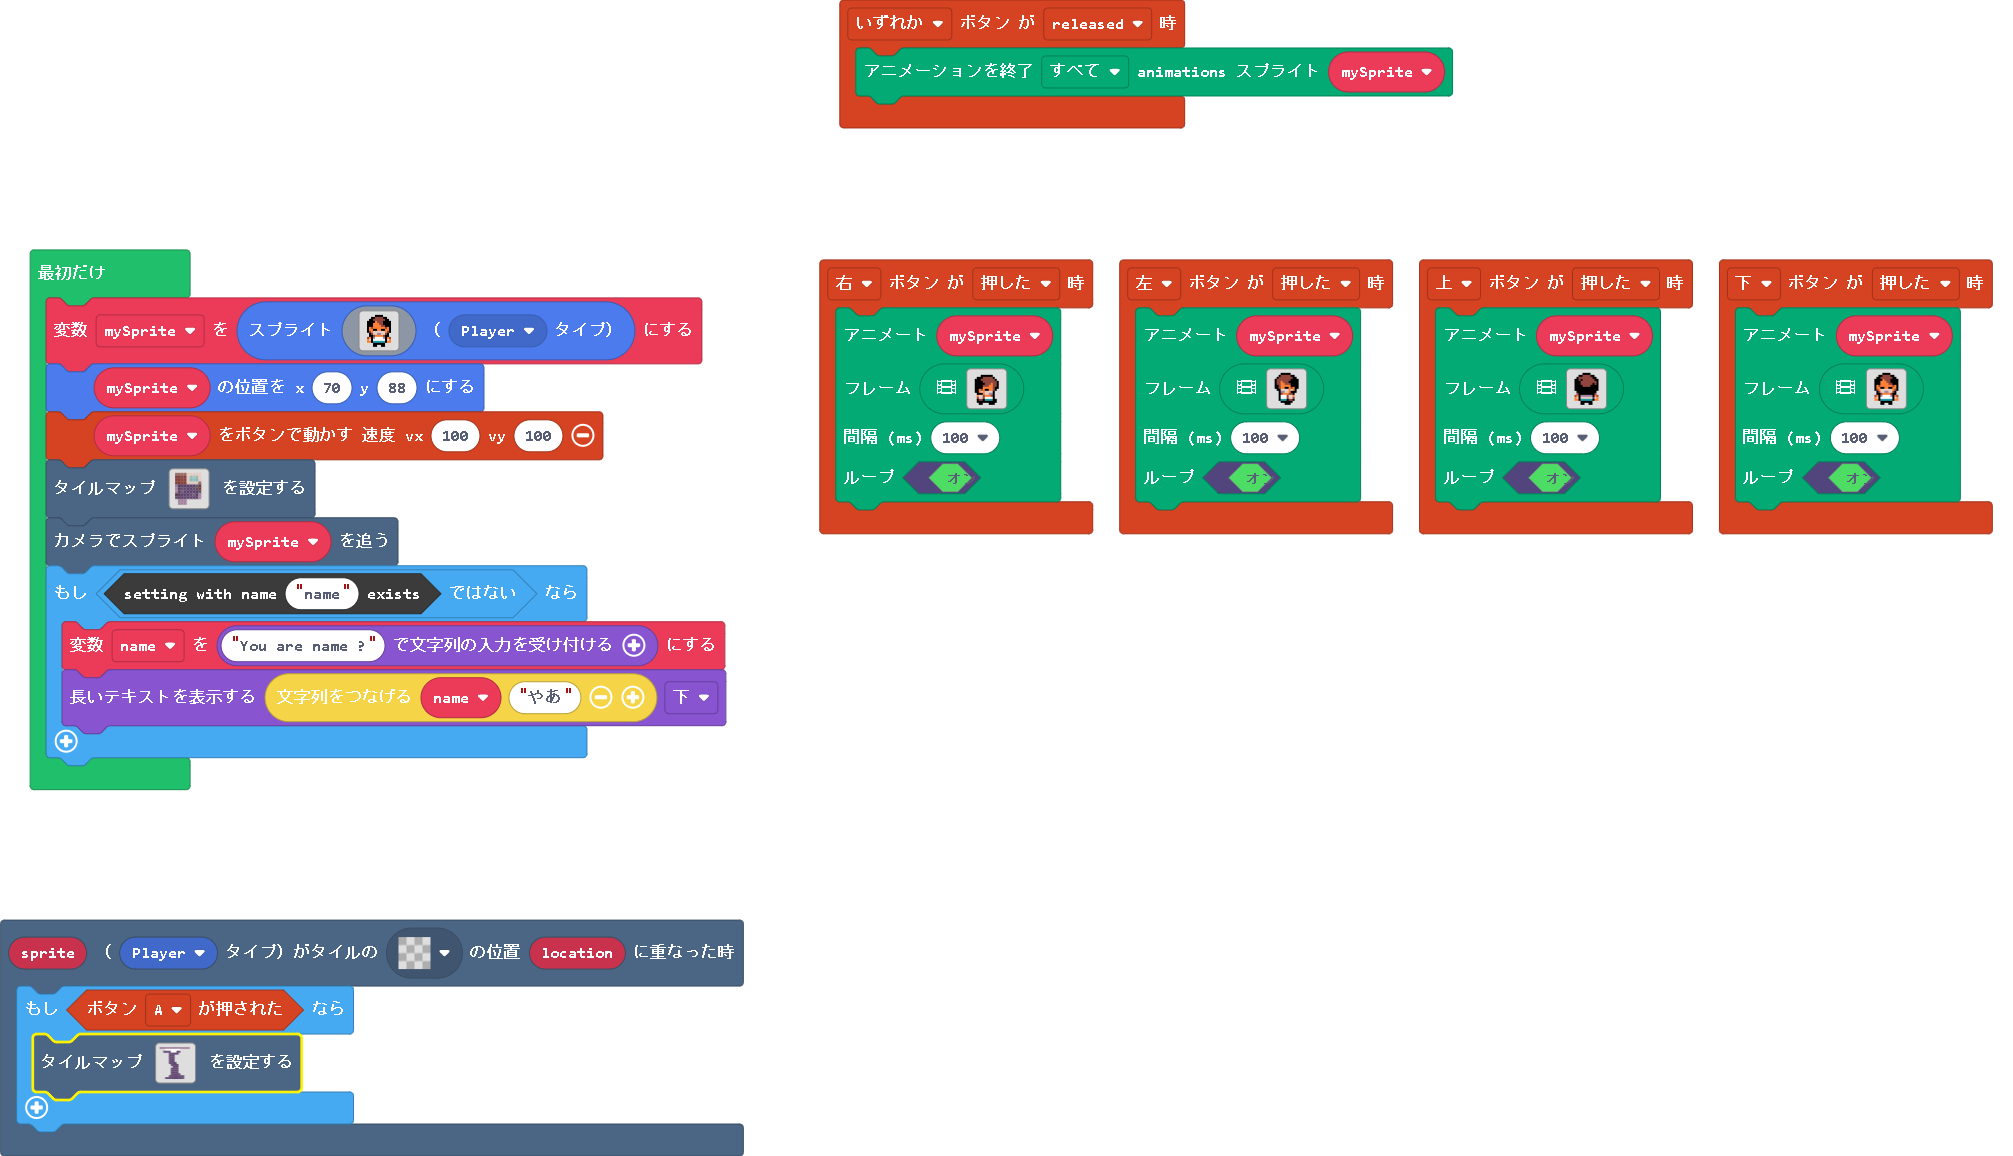
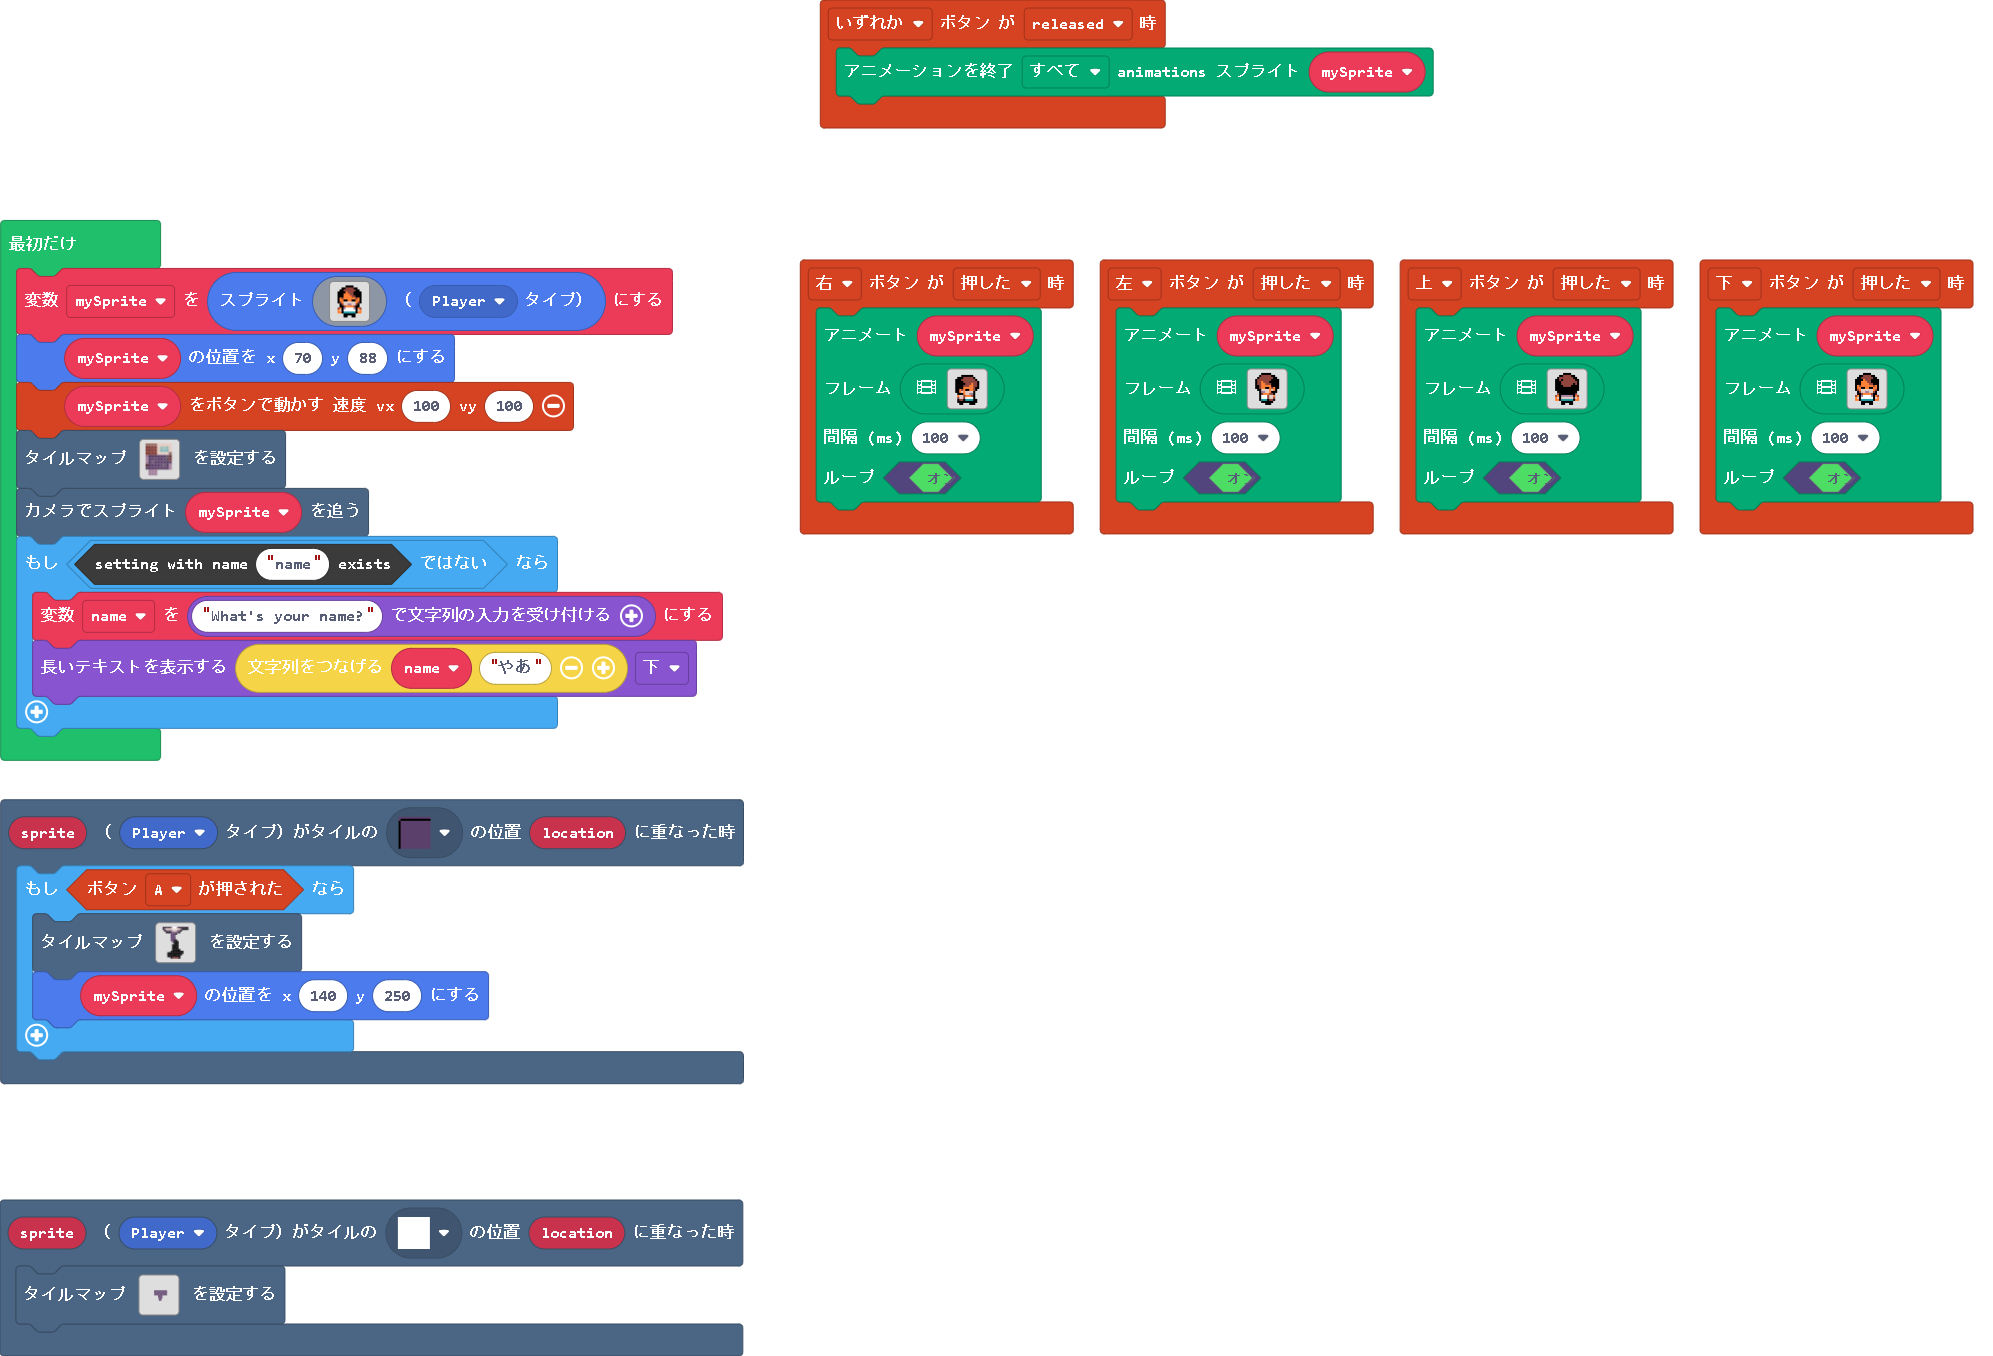
更新 main.blocks, main.ts, tilemap.g.jres, tilemap.g.ts

diff --git a/tilemap.g.ts b/tilemap.g.ts
@@ -93,7 +93,57 @@ namespace myTiles {
     //% fixedInstance jres blockIdentity=images._tile
     export const tile45 = image.ofBuffer(hex``);
     //% fixedInstance jres blockIdentity=images._tile
+    export const tile49 = image.ofBuffer(hex``);
+    //% fixedInstance jres blockIdentity=images._tile
+    export const tile50 = image.ofBuffer(hex``);
+    //% fixedInstance jres blockIdentity=images._tile
+    export const tile51 = image.ofBuffer(hex``);
+    //% fixedInstance jres blockIdentity=images._tile
+    export const tile52 = image.ofBuffer(hex``);
+    //% fixedInstance jres blockIdentity=images._tile
+    export const tile53 = image.ofBuffer(hex``);
+    //% fixedInstance jres blockIdentity=images._tile
+    export const tile57 = image.ofBuffer(hex``);
+    //% fixedInstance jres blockIdentity=images._tile
+    export const tile56 = image.ofBuffer(hex``);
+    //% fixedInstance jres blockIdentity=images._tile
+    export const tile55 = image.ofBuffer(hex``);
+    //% fixedInstance jres blockIdentity=images._tile
+    export const tile54 = image.ofBuffer(hex``);
+    //% fixedInstance jres blockIdentity=images._tile
+    export const tile58 = image.ofBuffer(hex``);
+    //% fixedInstance jres blockIdentity=images._tile
+    export const tile59 = image.ofBuffer(hex``);
+    //% fixedInstance jres blockIdentity=images._tile
+    export const tile60 = image.ofBuffer(hex``);
+    //% fixedInstance jres blockIdentity=images._tile
+    export const tile61 = image.ofBuffer(hex``);
+    //% fixedInstance jres blockIdentity=images._tile
+    export const tile62 = image.ofBuffer(hex``);
+    //% fixedInstance jres blockIdentity=images._tile
+    export const tile46 = image.ofBuffer(hex``);
+    //% fixedInstance jres blockIdentity=images._tile
     export const tile47 = image.ofBuffer(hex``);
+    //% fixedInstance jres blockIdentity=images._tile
+    export const tile63 = image.ofBuffer(hex``);
+    //% fixedInstance jres blockIdentity=images._tile
+    export const tile64 = image.ofBuffer(hex``);
+    //% fixedInstance jres blockIdentity=images._tile
+    export const tile65 = image.ofBuffer(hex``);
+    //% fixedInstance jres blockIdentity=images._tile
+    export const tile66 = image.ofBuffer(hex``);
+    //% fixedInstance jres blockIdentity=images._tile
+    export const tile67 = image.ofBuffer(hex``);
+    //% fixedInstance jres blockIdentity=images._tile
+    export const tile68 = image.ofBuffer(hex``);
+    //% fixedInstance jres blockIdentity=images._tile
+    export const tile70 = image.ofBuffer(hex``);
+    //% fixedInstance jres blockIdentity=images._tile
+    export const tile71 = image.ofBuffer(hex``);
+    //% fixedInstance jres blockIdentity=images._tile
+    export const tile72 = image.ofBuffer(hex``);
+    //% fixedInstance jres blockIdentity=images._tile
+    export const tile48 = image.ofBuffer(hex``);
 
     helpers._registerFactory("tilemap", function(name: string) {
         switch(helpers.stringTrim(name)) {
@@ -206,26 +256,48 @@ namespace myTiles {
 2 . . . 2 2 2 2 2 
 2 . . . 2 2 2 2 2 
 `, [myTiles.transparency16,myTiles.tile6,myTiles.tile7,myTiles.tile8,myTiles.tile9,myTiles.tile10,myTiles.tile12,myTiles.tile13,myTiles.tile14,myTiles.tile1,myTiles.tile2,myTiles.tile4,myTiles.tile5,myTiles.tile15,myTiles.tile16,myTiles.tile18,myTiles.tile19,myTiles.tile20,myTiles.tile17,myTiles.tile3,myTiles.tile21,myTiles.tile23,myTiles.tile25,myTiles.tile24,myTiles.tile28,myTiles.tile29,myTiles.tile30,myTiles.tile31,myTiles.tile32,myTiles.tile33,myTiles.tile34,myTiles.tile35,myTiles.tile36,myTiles.tile37,myTiles.tile27,myTiles.tile38,myTiles.tile39,myTiles.tile40,myTiles.tile41,myTiles.tile22,myTiles.tile42,myTiles.tile43,myTiles.tile44,myTiles.tile45], TileScale.Sixteen);
-            case "レベル7":
-            case "レベル7":return tiles.createTilemap(hex`100011000303030303030303030303030303030300000002020202020202020000000000000001010101020202010100000000000000000000010101010100000000000000000000000101010000000000000000000000000001010100000000000000000000000000010101000000000000000000000000000101010000000000000000000000000001010101000000000000000000000000000101010100000000000000000000000000010101000000000000000000000000010101010000000000000000000000000101010100000000000000000000000001010101000000000000000000000000010101010100000000000000000000010101010101010100000000000001010101010101010101000000`, img`
-. . . . . . . . . . . . . . . . 
-. . . . . . . . . . . . . . . . 
-. . . . . . . . . . . . . . . . 
-. . . . . . . . . . . . . . . . 
-. . . . . . . . . . . . . . . . 
-. . . . . . . . . . . . . . . . 
-. . . . . . . . . . . . . . . . 
-. . . . . . . . . . . . . . . . 
-. . . . . . . . . . . . . . . . 
-. . . . . . . . . . . . . . . . 
-. . . . . . . . . . . . . . . . 
-. . . . . . . . . . . . . . . . 
-. . . . . . . . . . . . . . . . 
-. . . . . . . . . . . . . . . . 
-. . . . . . . . . . . . . . . . 
-. . . . . . . . . . . . . . . . 
-. . . . . . . . . . . . . . . . 
-`, [myTiles.transparency16,myTiles.tile7,myTiles.tile47,sprites.dungeon.floorDark2], TileScale.Sixteen);
+            case "aisle":
[1 lines of base64/hex data omitted]
+222222...2222222
+2...........2222
+22.........22222
+22222.....222222
+22222...22222222
+22222...22222222
+22222...22222222
+22222...22222222
+22222....2222222
+222222....222222
+2222222...222222
+222222....222222
+222222....222222
+222222....222222
+222222.....22222
+22222........222
+222..........222
+222.........2222
+222........22222
+22222.2222.22222
+`, [myTiles.transparency16,myTiles.tile7,myTiles.tile47,myTiles.tile46,myTiles.tile34,sprites.builtin.oceanSand13,sprites.builtin.oceanSand15,myTiles.tile53,myTiles.tile55,myTiles.tile56,myTiles.tile57,myTiles.tile54,myTiles.tile58,myTiles.tile59,myTiles.tile60,myTiles.tile61,myTiles.tile62,myTiles.tile63,myTiles.tile64,myTiles.tile65,myTiles.tile66,myTiles.tile67,myTiles.tile68,myTiles.tile70,myTiles.tile71,myTiles.tile72,myTiles.tile48], TileScale.Sixteen);
+            case "8entryway":
+            case "レベル8":return tiles.createTilemap(hex`2800100000000000000000000000000000000000000000000000000000000000000000000000000000000000000000000000000000000000000000000000000000000000000000000000000000000000000000000000000000000000000000000000000000000000000000000000000000000000000000000000000000000000000000000000000000000101010101010101010101010101010100000000000000000000000000000000000000000000000001010101010101010101010101010101000000000000000000000000000000000000000000000000010101010101010101010101010101010000000000000000000000000000000000000000000000000101010101010101010101010101010100000000000000000000000000000000000000000000000001010101010101010101010101010101000000000000000000000000000000000000000000000000010101010101010101010101010101010000000000000000000000000000000000000000000000000000000000010101010100000000000000000000000000000000000000000000000000000000000000000000000101010101000000000000000000000000000000000000000000000000000000000000000000000001010101010000000000000000000000000000000000000000000000000000000000000000000000010101010100000000000000000000000000000000000000000000000000000000000000000000000001010100000000000000000000000000000000000000000000000000000000000000000000000000010101000000000000000000000000000000000000000000000000000000000000000000000000000101010000000000000000000000000000000000`, img`
+........................................
+........................................
+........................................
+........................................
+........................................
+........................................
+........................................
+........................................
+........................................
+........................................
+........................................
+........................................
+........................................
+........................................
+........................................
+........................................
+`, [myTiles.transparency16,myTiles.tile7], TileScale.Sixteen);
         }
         return null;
     })
@@ -323,8 +395,58 @@ namespace myTiles {
             case "tile44":return tile44;
             case "myTile43":
             case "tile45":return tile45;
+            case "myTile47":
+            case "tile49":return tile49;
+            case "myTile48":
+            case "tile50":return tile50;
+            case "myTile49":
+            case "tile51":return tile51;
+            case "myTile50":
+            case "tile52":return tile52;
+            case "myTile51":
+            case "tile53":return tile53;
+            case "myTile55":
+            case "tile57":return tile57;
+            case "myTile54":
+            case "tile56":return tile56;
+            case "myTile53":
+            case "tile55":return tile55;
+            case "myTile52":
+            case "tile54":return tile54;
+            case "myTile56":
+            case "tile58":return tile58;
+            case "myTile57":
+            case "tile59":return tile59;
+            case "myTile58":
+            case "tile60":return tile60;
+            case "myTile59":
+            case "tile61":return tile61;
+            case "myTile60":
+            case "tile62":return tile62;
+            case "myTile44":
+            case "tile46":return tile46;
             case "myTile45":
             case "tile47":return tile47;
+            case "myTile61":
+            case "tile63":return tile63;
+            case "myTile62":
+            case "tile64":return tile64;
+            case "myTile63":
+            case "tile65":return tile65;
+            case "myTile64":
+            case "tile66":return tile66;
+            case "myTile65":
+            case "tile67":return tile67;
+            case "myTile66":
+            case "tile68":return tile68;
+            case "myTile68":
+            case "tile70":return tile70;
+            case "myTile69":
+            case "tile71":return tile71;
+            case "myTile70":
+            case "tile72":return tile72;
+            case "myTile46":
+            case "tile48":return tile48;
         }
         return null;
     })

diff --git a/main.ts b/main.ts
@@ -57,6 +57,12 @@ controller.right.onEvent(ControllerButtonEvent.Pressed, function () {
     true
     )
 })
+scene.onOverlapTile(SpriteKind.Player, assets.tile`myTile6`, function (sprite, location) {
+    if (controller.A.isPressed()) {
+        tiles.setTilemap(tilemap`aisle`)
+        mySprite.setPosition(140, 250)
+    }
+})
 controller.down.onEvent(ControllerButtonEvent.Pressed, function () {
     animation.runImageAnimation(
     mySprite,
@@ -178,6 +184,9 @@ controller.left.onEvent(ControllerButtonEvent.Pressed, function () {
     true
     )
 })
+scene.onOverlapTile(SpriteKind.Player, assets.tile`myTile61`, function (sprite, location) {
+    tiles.setTilemap(tilemap`8entryway`)
+})
 controller.up.onEvent(ControllerButtonEvent.Pressed, function () {
     animation.runImageAnimation(
     mySprite,
@@ -237,11 +246,6 @@ controller.up.onEvent(ControllerButtonEvent.Pressed, function () {
     true
     )
 })
-scene.onOverlapTile(SpriteKind.Player, assets.tile`transparency16`, function (sprite, location) {
-    if (controller.A.isPressed()) {
-        tiles.setTilemap(tilemap`レベル7`)
-    }
-})
 let name = ""
 let mySprite: Sprite = null
 mySprite = sprites.create(assets.image`man`, SpriteKind.Player)
@@ -250,6 +254,6 @@ controller.moveSprite(mySprite, 100, 100)
 tiles.setTilemap(tilemap`home`)
 scene.cameraFollowSprite(mySprite)
 if (!(blockSettings.exists("name"))) {
-    name = game.askForString("You are name ?")
+    name = game.askForString("What's your name?")
     game.showLongText("" + name + "やあ", DialogLayout.Bottom)
 }
